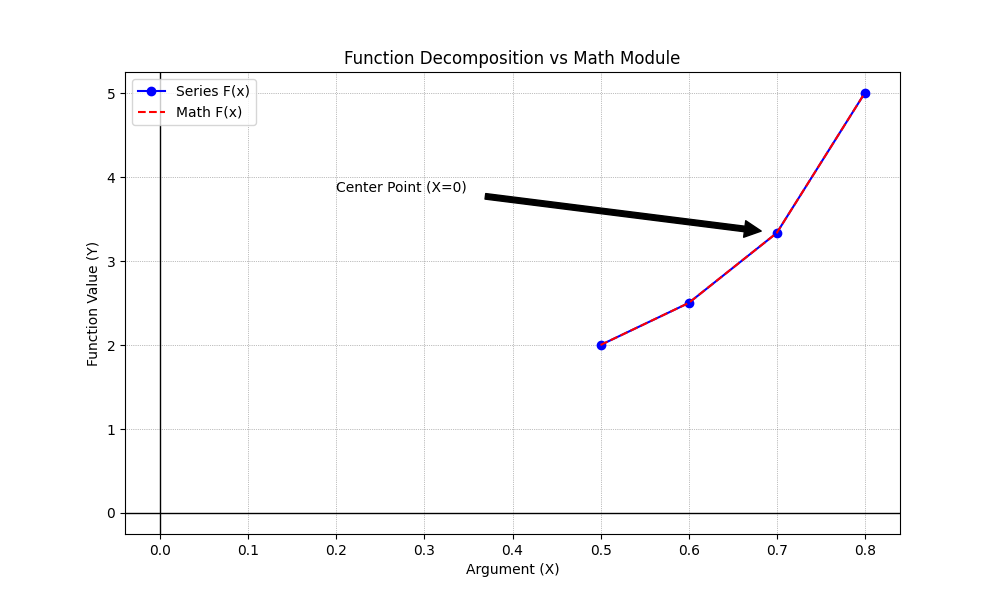
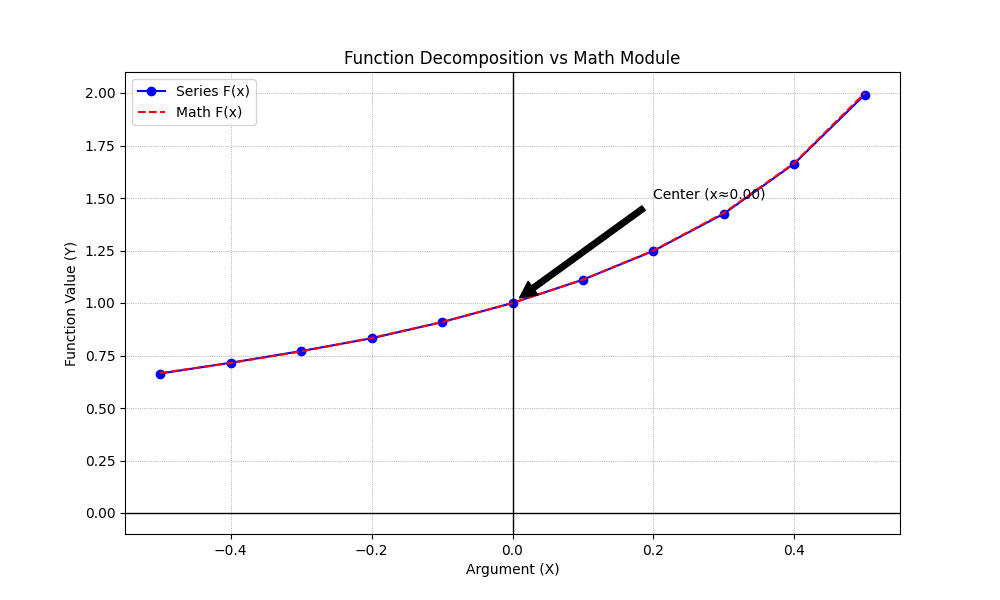
lr 4

diff --git a/IGI/LR4/LR4/task_6/models.py b/IGI/LR4/LR4/task_6/models.py
@@ -88,7 +88,7 @@ class WeatherDatasetAnalyzer(BaseDataAnalyzer):
         if self._df is None:
             self.load_data()
 
-        required_columns = ['Temperature_c', 'Humidity']
+        required_columns = ['Temperature (C)', 'Humidity']
         for col in required_columns:
             if col not in self._df.columns:
                 raise MissingColumnError(f"Column '{col}' is missing from the dataset.")
@@ -109,22 +109,22 @@ class WeatherDatasetAnalyzer(BaseDataAnalyzer):
         if self._df is None:
             self.load_data()
 
-        if 'Temperature_c' not in self._df.columns:
+        if 'Temperature (C)' not in self._df.columns:
             raise MissingColumnError("Column 'Temperature_c' is missing.")
 
-        q90 = self._df['Temperature_c'].quantile(0.90)
-        q10 = self._df['Temperature_c'].quantile(0.10)
+        q90 = self._df['Temperature (C)'].quantile(0.90)
+        q10 = self._df['Temperature (C)'].quantile(0.10)
 
-        hottest_days = self._df[self._df['Temperature_c'] >= q90]
-        coldest_days = self._df[self._df['Temperature_c'] <= q10]
+        hottest_days = self._df[self._df['Temperature (C)'] >= q90]
+        coldest_days = self._df[self._df['Temperature (C)'] <= q10]
 
-        avg_hot = hottest_days['Temperature_c'].mean()
-        avg_cold = coldest_days['Temperature_c'].mean()
+        avg_hot = hottest_days['Temperature (C)'].mean()
+        avg_cold = coldest_days['Temperature (C)'].mean()
 
         if avg_cold == 0:
             return 0.0
 
-        ratio = avg_hot / avg_cold
+        ratio = abs(avg_hot) / abs(avg_cold)
         return round(ratio, 2)
 
     def __str__(self) -> str:

diff --git a/IGI/LR4/LR4/task_2/models.py b/IGI/LR4/LR4/task_2/models.py
@@ -8,7 +8,6 @@ import re
 import zipfile
 import os
 from abc import ABC, abstractmethod
-from collections import Counter
 
 
 class ZipArchiverMixin:
